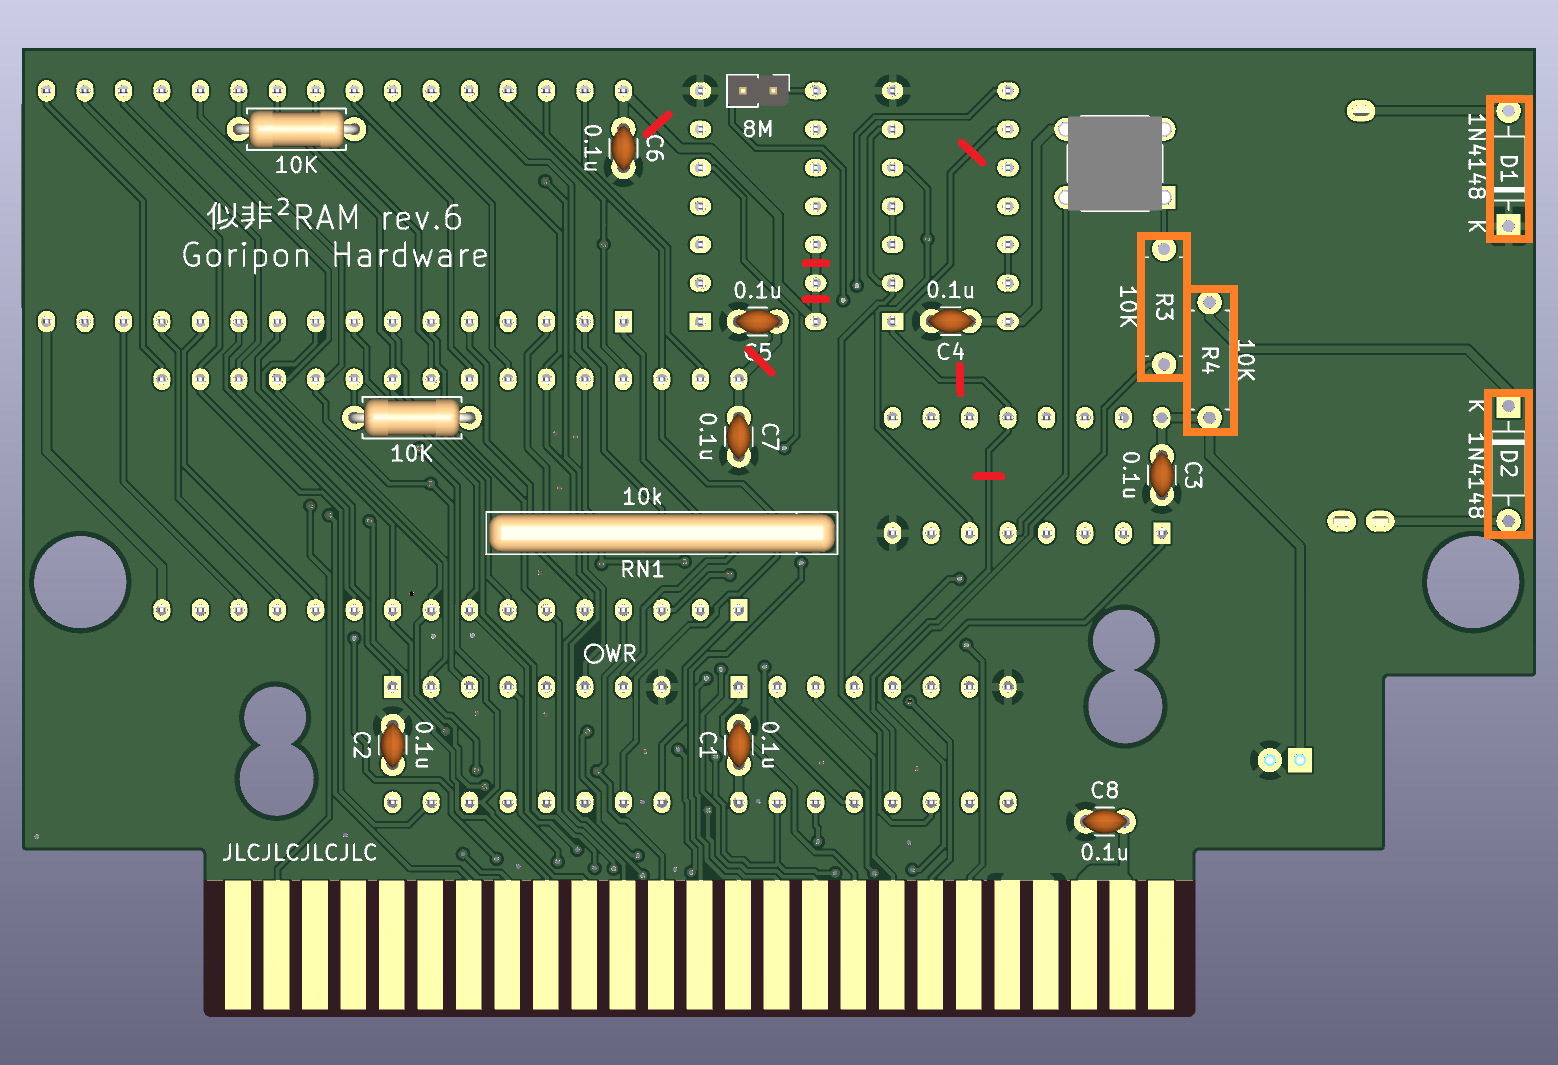
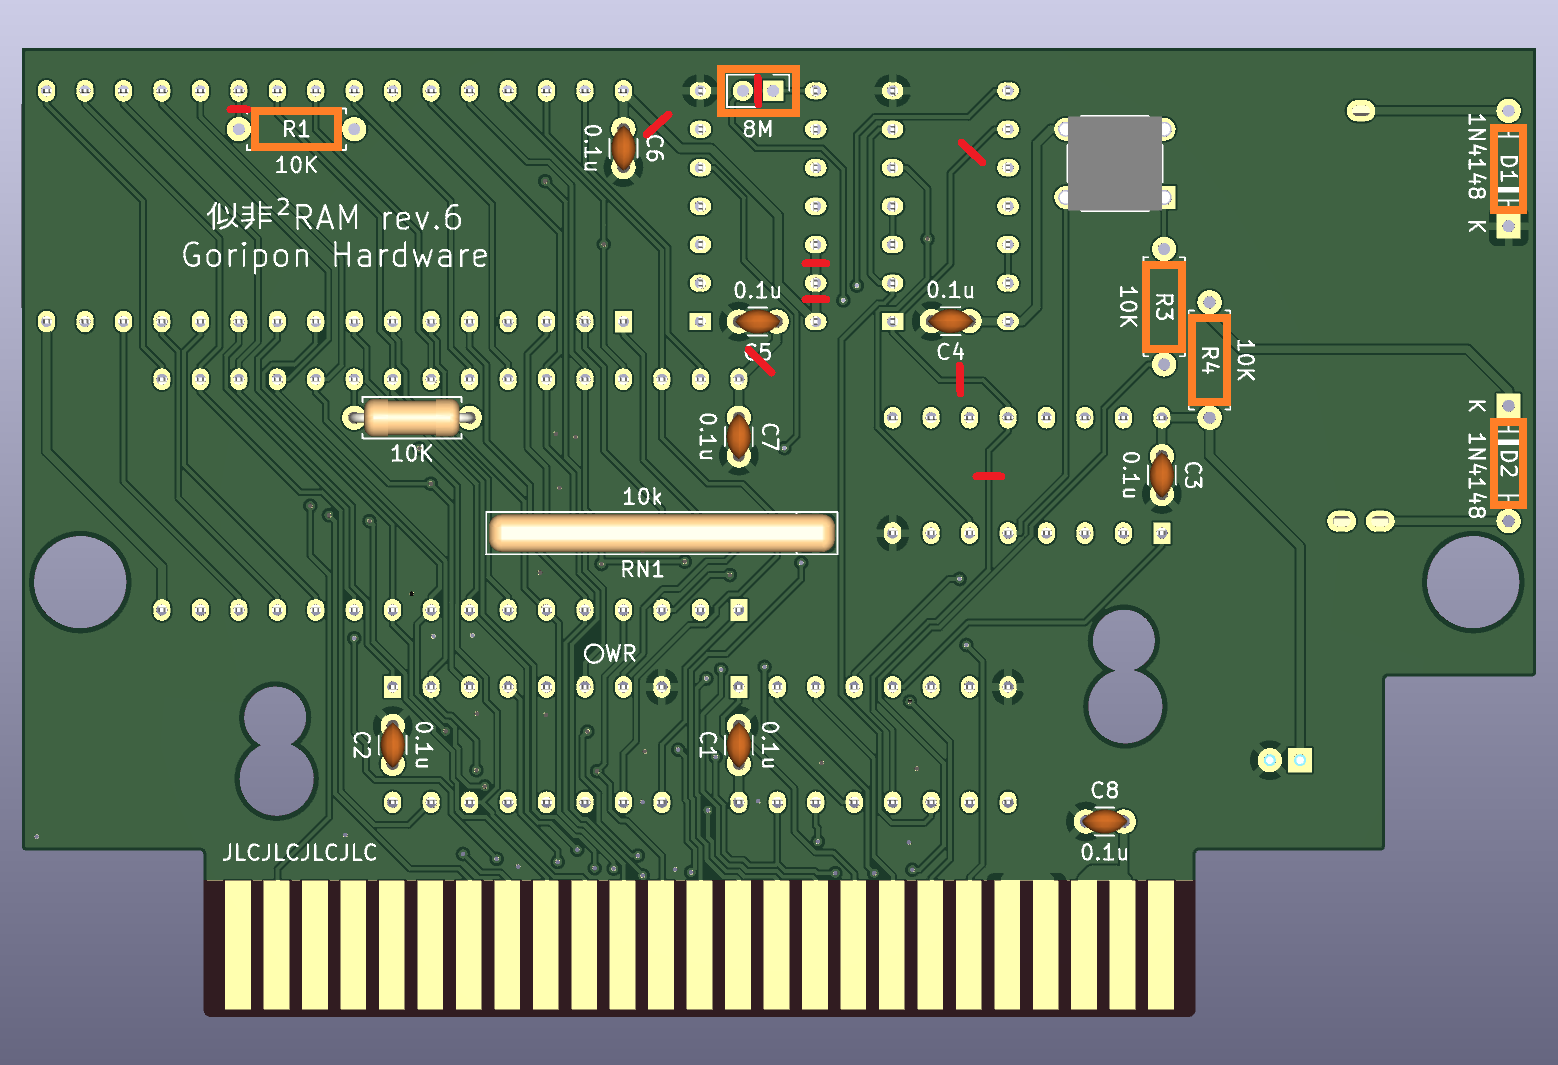
Partial correction to README
The release of modification documentation has been temporarily suspended.

diff --git a/upgrade_patch/main-en.md b/upgrade_patch/main-en.md
@@ -3,46 +3,67 @@
 This information concerns upgrading circuit boards from Rev.6 and earlier to Rev.7 equivalent.
 Previous Rev.6 boards had circuits that put a strain on the MSX console, so this upgrade is strongly recommended.
 <br>This will make the circuit equivalent to Rev.7, reducing the strain on the console, improving battery life, and enhancing compatibility.
+The modification involves two stages: patching the circuit board to create a circuit equivalent to Rev.7 by using jumpers, pattern cuts, and discrete components, and replacing the IC. There are three possible modification methods: performing only one of these steps, or performing both.
+<br>However, because the former patching involves soldering jumpers and discrete components to the IC pins, if you patch first, you may need to remove the patch once it's installed. Therefore, if you plan to replace the IC, it is recommended to do so first.
 
-Please note that the actual modification has been verified on boards from Rev.4 to Rev.6. It may not be possible to perform the modification using the same procedure on boards from Rev.3 or earlier.
+>[!IMPORTANT]
+>The actual modification has been verified on Rev.4 to Rev.6 circuit boards. It may not be possible to modify Rev.3 or earlier circuit boards using the same procedure.
 
 ## Parts list
 |Contents|Quantity|
 |:--|--:|
-|resistor 3.3K ohm, 1/4W|1|
-|Schottky barrier diode BAT43<br>*If a replacement is needed, please select a diode with a low forward voltage (Vf) (usually a Schottky barrier diode).|3|
+|Resistor 3.3K ohm, 1/4W|1|
+|Resistor 10K ohm, 1/4W<br>*Not required if the removed items are to be reused.|1|
+|Schottky barrier diode BAT43<br>*If a replacement is needed, please select a diode with a low forward voltage (Vf) (usually a Schottky barrier diode).|5|
 |MLCC 100pF, 50V|1|
 |EC 47uF, 6.3V or higher|1|
+|Logic IC "74ACT138"<br>*If you want to replace the IC|1|
 |jumper wire|Appropriately|
 
 ## Circuit board modification procedure
 
 Here are the actual repair procedures.
 
-1. Pattern Cutting (Frontside of Circuit Board)
+0. IC replacement
+<br>We will remove the U3 and replace it with an IC from the ACT family that we have prepared.
+- Remove the part enclosed by the orange line (one location) and replace it from 74AHC138 to 74ACT138.
+- While replacing the ICs will provide maximum compatibility, it is usually not necessary. For models that operate faster than standard MSX (such as the FS-A1FX/WX/WSX in 5.37MHz mode or the HC-90/95 in turbo mode), models with different bus timing than standard MSX (such as the 1chipMSX series or the HC-90/95), or models with different signal drive voltages than standard MSX (such as the 1chipMSX series), compatibility may be further improved compared to modifications alone. Please choose the appropriate option based on the machine you are using.
+
+![](remove_front.png)
+
+1. Pattern cutting (front side of circuit board)
 <br>Perform pattern cutting.
-<br>Cut the patterns indicated by the red lines (two locations) in the image.
+- Cut the patterns indicated by the red lines (two locations) in the image.
 
 ![](cut_front.png)
 
-2. Pattern Cutting and Component Removal (Backside of Circuit Board)
-<br>Similar to the front side, pattern cutting is performed, and in addition, D1, D2, R3, and R4 are removed.
-<br>Cut the patterns indicated by the red lines (7 locations) in the image, and remove the components enclosed by the orange lines.
+2. Pattern cutting and component removal (backside of circuit board)
+<br>Similar to the front side, pattern cutting will be performed, and in addition, D1, D2, R1, R3, R4, and the jumper pins will be removed (the 1024KB/512KB switching jumper pin will become unusable after this modification).
+- Cut along the red lines (9 locations) in the image, and remove the components (6 locations) enclosed by the orange lines.
+- It may be difficult to see, but please note that there are also places to cut on the left side of R1 (between the left pad and the IC pins) and between the jumper pins (if jumper pins are installed, they should already be cut).
 
 ![](cut_back.png)
 
-3. Component Installation and Jumper Wiring (Backside of Circuit Board)
-<br>Based on the actual wiring diagram below, place the components and connect the jumpers with wiring material.
-<br>Replace R3 and R4 with BAT43 diodes (see image for orientation), replace D2 with a BAT43 diode (same orientation as the original), and bypass D1 by connecting it with wiring without placing any components.
-<br>Connect the 100pF MLCC in parallel with the BAT43 placed in the original R3 location.
-<br>Connect the negative side of the 47uF EC to the original D1 cathode (GND) and the positive side to the D2 cathode. Please note that there is a protrusion on the inside of the case near the horizontal line around R3 and R4, so if you place the EC there, the case may not close.
+3.Jumper wiring (front side of circuit board)
+<br>Based on the following wiring diagram, create a jumper (1 wire) using wiring material.
+- Since this involves soldering to the terminals of the card edge connector, please take care to prevent too much solder from flowing by covering the terminals with heat-resistant tape or similar means.
+
+![](patch_front.png)
+
+4. Component mounting and jumper wiring (backside of circuit board)
+<br>Based on the following wiring diagram, place the components (9 locations) and connect the jumpers using wiring materials.
+- Connect the cathode side of the BAT43 to the left pad of R1, and the anode side of the BAT43 to pin 22 of the SRAM (just above the left pad of R1). Connect one end of the 10kΩ resistor to the right pad of R1, and the other end of the resistor to the anode side of the BAT43.
+- Replace R3 and R4 with BAT43 diodes (see image for orientation), replace D2 with a BAT43 diode (same orientation as the original), and bypass D1 by connecting it with wiring without placing any components.
+- Connect the anode of the BAT43 to the left pad of the jumper pin (the side with the square silkscreen printing), and connect the cathode of the BAT43 to the right pad. If you install it vertically, it won't fit in the case, so please install it horizontally.
+- Connect the 100pF MLCC in parallel with the BAT43 placed in the original R3 location.
+- Connect the negative side of the 47uF EC to the original D1 cathode (GND) and the positive side to the D2 cathode. Please note that there is a protrusion on the inside of the case in the horizontal area around R3 and R4, so if you place electrolytic capacitors there, the case may not close properly.
+- The connection of the SRAM pin on the far left of the physical wiring diagram is a reconnection to GND, so any GND will work, and in the physical wiring diagram, the solder mask of a nearby GND plane is scraped off and the connection is made there.
 
 ![](patch_back.png)
 
 ## Actual modification example
 
 These are photos of the actual modification and verification process.
-<br>Incidentally, the pattern cuts were made by drilling out the relevant areas.
-<br>In the actual wiring diagram, there are pins (SRAM's VCC/GND) that are connected in a different location and via a different path than in this photo, to prevent the wiring from overlapping and becoming difficult to see.
 
 ![](photo_back.png)
+![](photo_front.png)

diff --git a/README.md b/README.md
@@ -1,8 +1,10 @@
 # 似非²RAMカートリッジ(1Mbyte版)
 [English README is here](README-en.md)
 
->[!IMPORTANT]
+<!--
+>>[!IMPORTANT]
 >Rev.7で回路に大幅な改修が入ったため、Rev.6以前の基板をRev.7相当に改修する[基板改修情報](upgrade_patch/main.md)を公開しています。Rev.6以前の基板はMSX本体に負担を掛ける回路でしたので、この改修を行うことを強く推奨します。
+-->
 
 ![](assemble_manual/front.jpg)
 ![](assemble_manual/rear.jpg)

diff --git a/README-en.md b/README-en.md
@@ -2,8 +2,10 @@
 
 [日本語版 README はこちら](README.md)
 
+<!--
 >[!IMPORTANT]
 >Due to significant circuit modifications in Rev.7, we are releasing [Circuit Board Modification Information](upgrade_patch/main-en.md) to update boards from Rev.6 and earlier to the equivalent of Rev.7. Since the circuitry in Rev.6 and earlier boards put a strain on the MSX system, we strongly recommend performing this modification.
+-->
 
 ![Front side](assemble_manual/front.jpg)
 ![Rear side](assemble_manual/rear.jpg)
